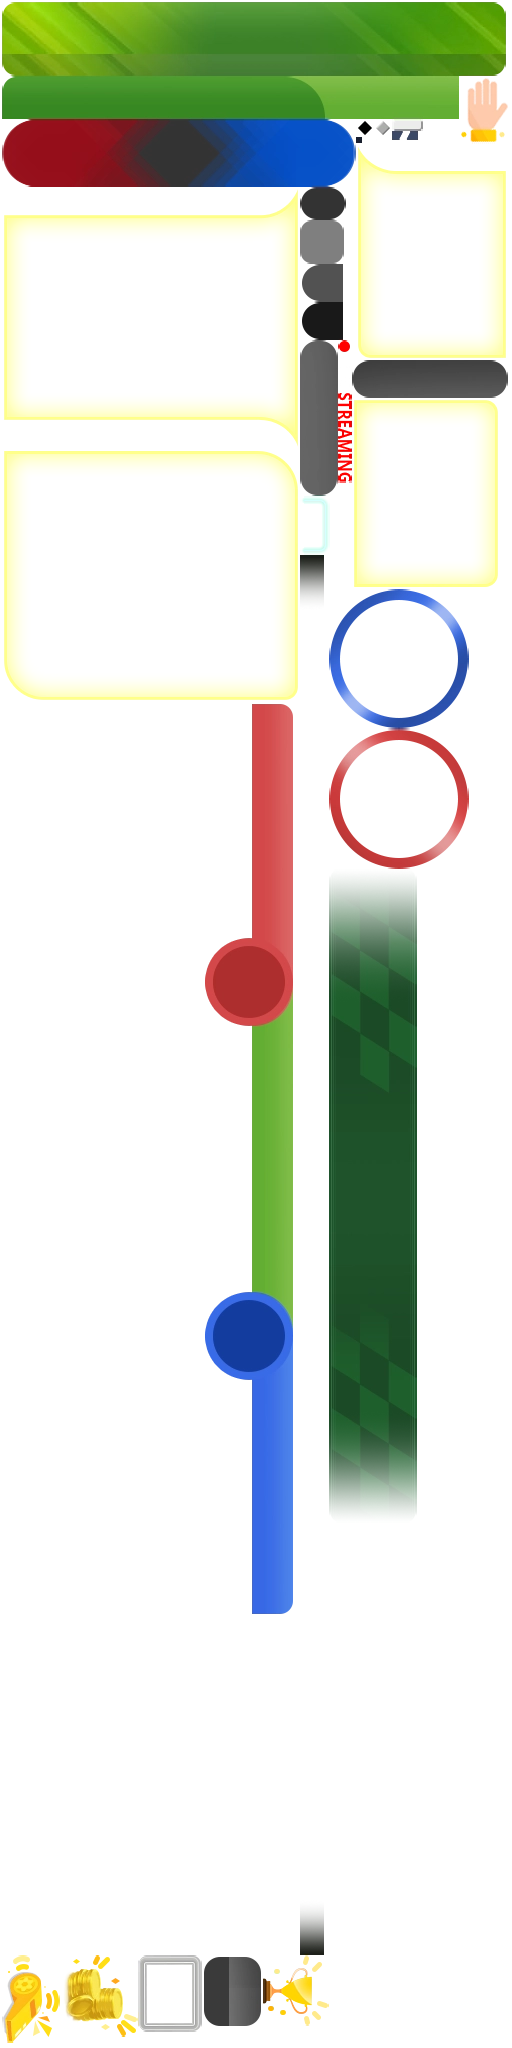
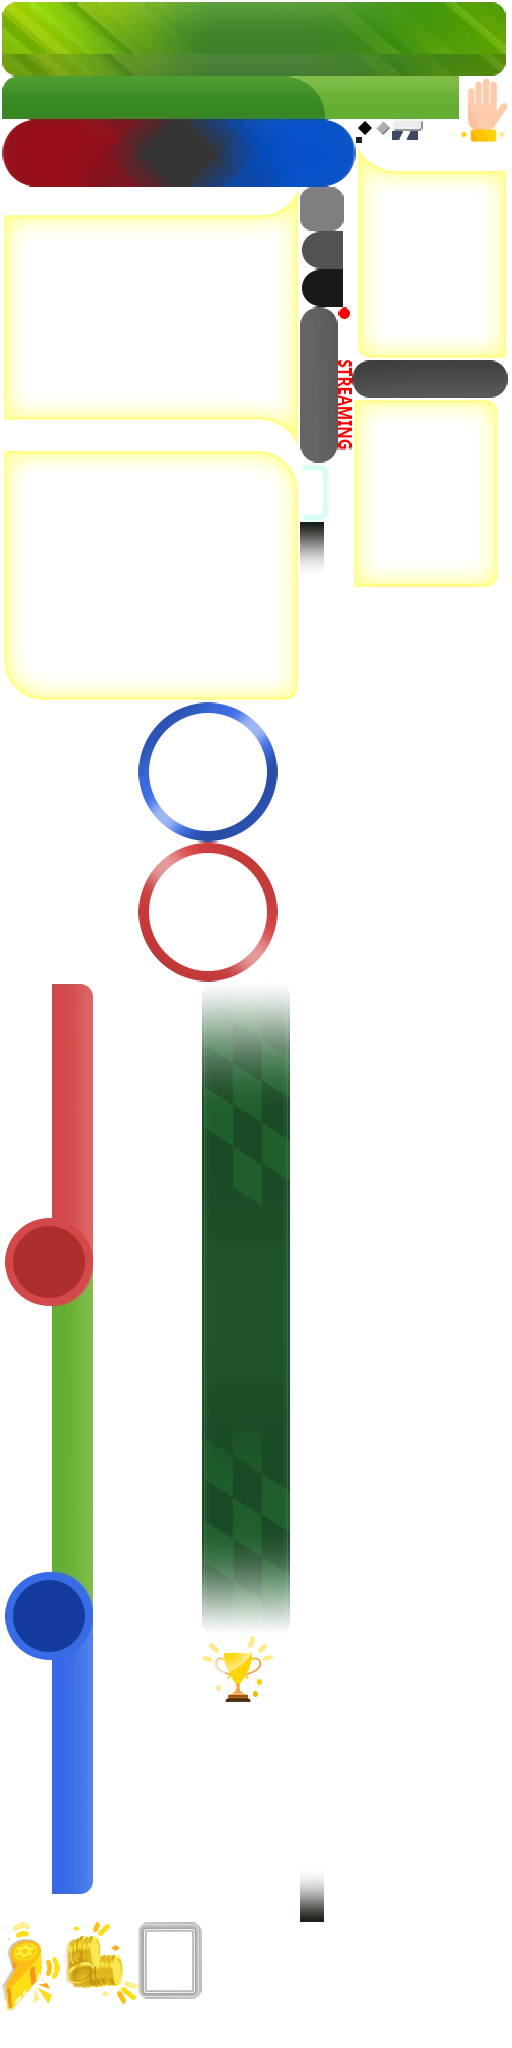
fix: update background round-id

diff --git a/graphics/pack-resources.py b/graphics/pack-resources.py
@@ -30,7 +30,10 @@ if __name__ == '__main__':
     
     # Danh sách các thư mục cần pack
     input_dirs = [
-        'images'
+        'images',
+        'images/backgrounds',
+        'images/scoreboard', 
+        'images/flags'
     ]
     
     output_path = os.path.join(project_dir, '..\\', 'src\\assets\\game\\images')
